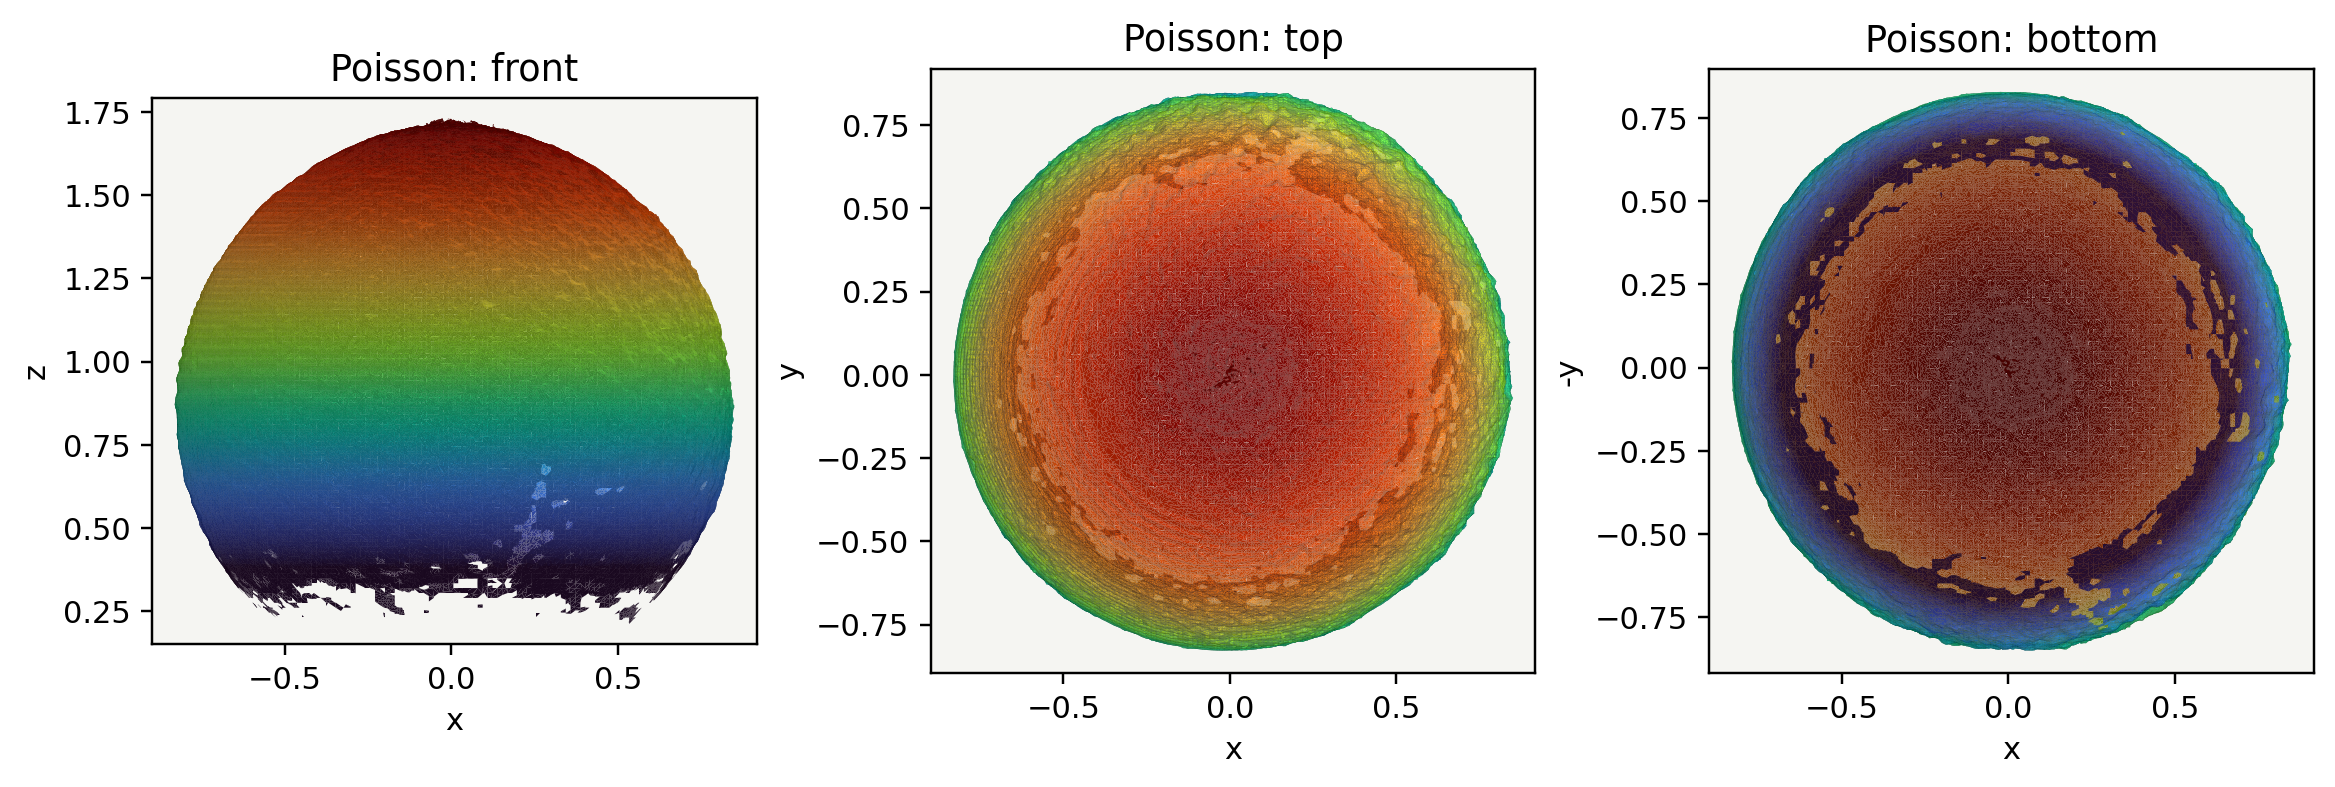
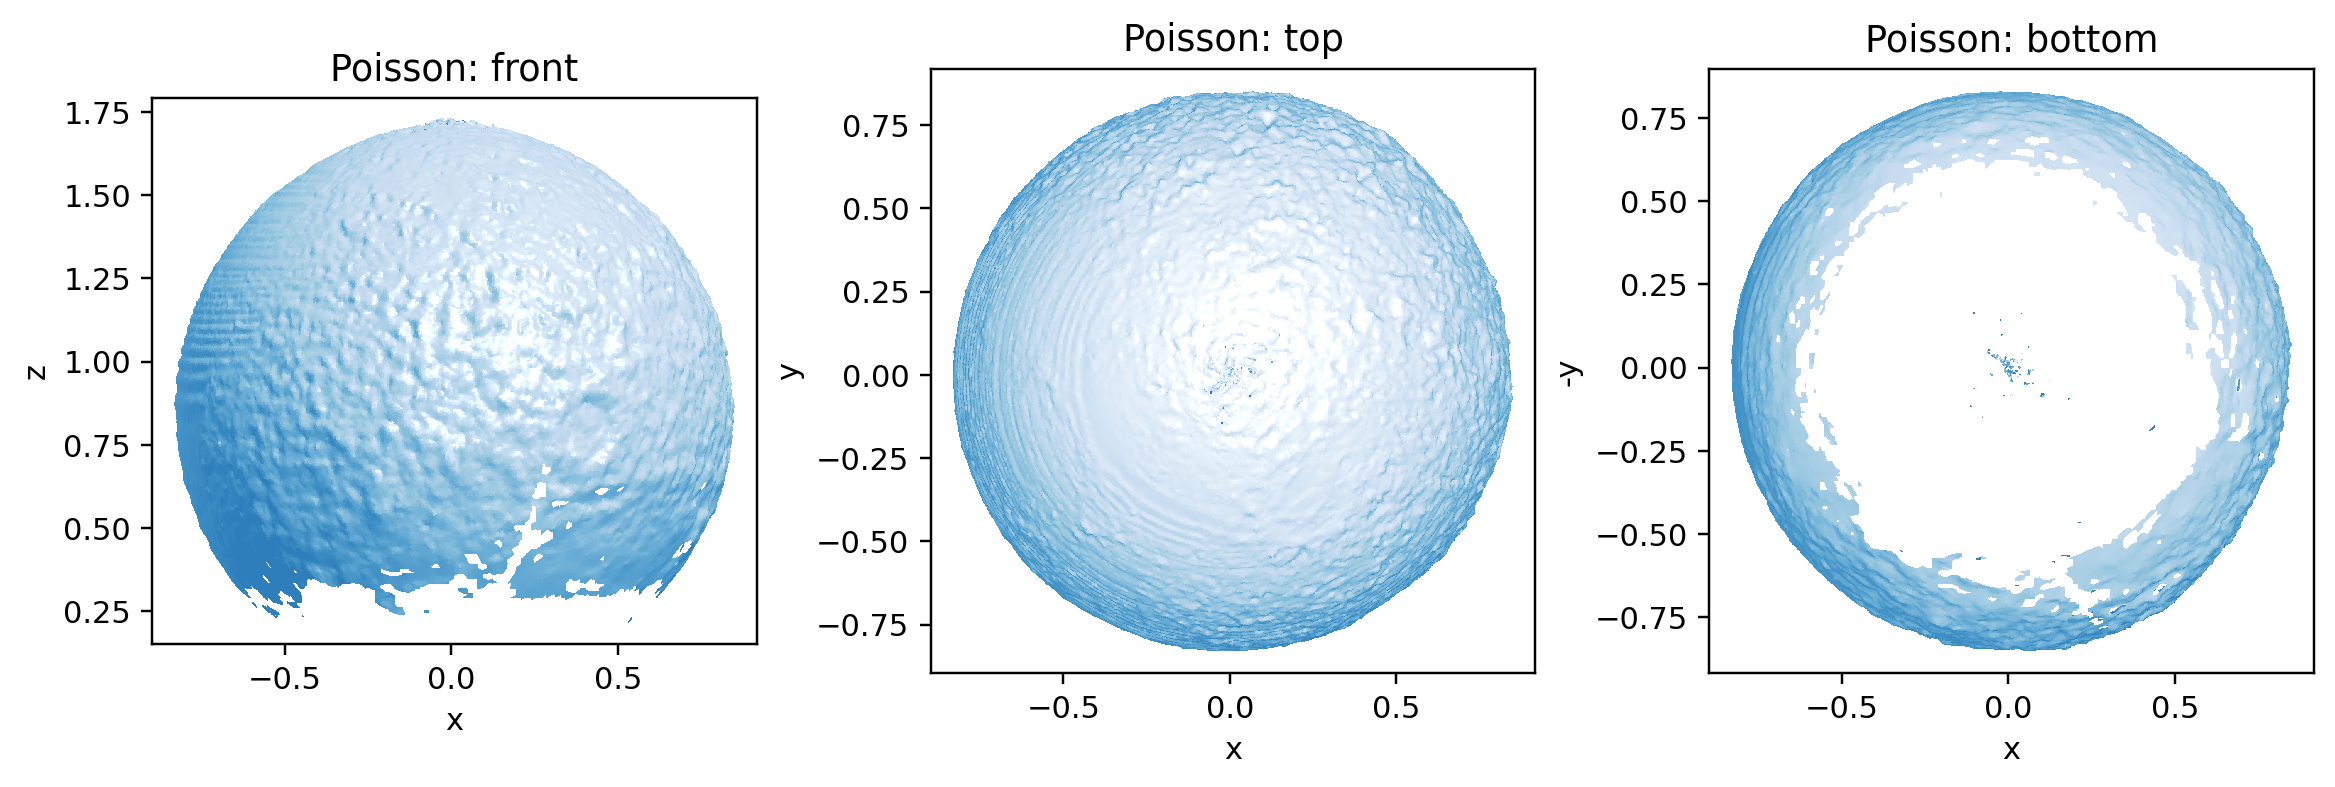
fix: generate view

diff --git a/scripts/generate_views.py b/scripts/generate_views.py
@@ -66,8 +66,8 @@ def parse_args():
     )
     parser.add_argument(
         "--color-by",
-        choices=["height", "view-depth", "normal"],
-        default="height",
+        choices=["height", "view-depth", "normal", "clay"],
+        default="clay",
         help="How to color mesh faces.",
     )
     parser.add_argument(
@@ -100,12 +100,16 @@ def load_mesh_arrays(mesh_path, max_faces):
         mesh = mesh.simplify_quadric_decimation(target_number_of_triangles=max_faces)
 
     mesh.compute_vertex_normals()
-    mesh.compute_triangle_normals()
-    return (
-        np.asarray(mesh.vertices, dtype=np.float64),
-        np.asarray(mesh.triangles, dtype=np.int64),
-        np.asarray(mesh.triangle_normals, dtype=np.float64),
-    )
+    vertices  = np.asarray(mesh.vertices,       dtype=np.float64)
+    triangles = np.asarray(mesh.triangles,      dtype=np.int64)
+    v_normals = np.asarray(mesh.vertex_normals, dtype=np.float64)
+    # Average the three vertex normals per face (smooth shading).
+    # This eliminates the marching-cubes / Poisson grid pattern that appears
+    # when every flat triangle has a slightly different geometric normal.
+    face_normals = v_normals[triangles].mean(axis=1)
+    norms = np.linalg.norm(face_normals, axis=1, keepdims=True)
+    face_normals /= np.where(norms < 1e-8, 1.0, norms)
+    return vertices, triangles, face_normals
 
 
 def equal_limits(values, pad=0.04):
@@ -120,10 +124,10 @@ def equal_limits(values, pad=0.04):
     return (lo - margin, hi + margin)
 
 
-def view_specs(vertices):
-    x_limits = equal_limits(vertices[:, 0])
-    y_limits = equal_limits(vertices[:, 1])
-    z_limits = equal_limits(vertices[:, 2])
+def view_specs(vertices, quarter_front=False):
+    x_limits = equal_limits(vertices[:, 0], pad=0.12)
+    y_limits = equal_limits(vertices[:, 1], pad=0.12)
+    z_limits = equal_limits(vertices[:, 2], pad=0.15)
     xy_span = max(x_limits[1] - x_limits[0], y_limits[1] - y_limits[0])
     xy_center = (
         (x_limits[0] + x_limits[1]) * 0.5,
@@ -134,8 +138,20 @@ def view_specs(vertices):
         (xy_center[1] - xy_span * 0.5, xy_center[1] + xy_span * 0.5),
     )
     bottom_y_limits = (-xy_limits[1][1], -xy_limits[1][0])
+
+    if quarter_front:
+        # Compute x-extent of the +30° rotated projection for correct axis limits.
+        # Camera is at (-sin30°, -cos30°, 0) = (-0.5, -0.866, 0) in world space.
+        angle = np.radians(30)
+        c, s = np.cos(angle), np.sin(angle)
+        x_rot = c * vertices[:, 0] - s * vertices[:, 1]
+        x_lim_q = equal_limits(x_rot, pad=0.12)
+        first_view = ("3/4 front", "x", "z", x_lim_q, z_limits)
+    else:
+        first_view = ("front", "x", "z", x_limits, z_limits)
+
     return [
-        ("front", "x", "z", x_limits, z_limits),
+        first_view,
         ("top", "x", "y", xy_limits[0], xy_limits[1]),
         ("bottom", "x", "-y", xy_limits[0], bottom_y_limits),
     ]
@@ -144,6 +160,15 @@ def view_specs(vertices):
 def project_vertices(vertices, view_name):
     if view_name == "front":
         return vertices[:, 0], vertices[:, 2], vertices[:, 1]
+    if view_name == "3/4 front":
+        angle = np.radians(30)
+        c, s = np.cos(angle), np.sin(angle)
+        x_rot  = c * vertices[:, 0] - s * vertices[:, 1]   # horizontal screen axis
+        # Negate so ascending argsort puts distant faces first (painter's algorithm).
+        # Camera is at world direction (-0.5, -0.866, 0); closer faces have a
+        # larger dot with that vector, so -(s·x + c·y) grows toward camera.
+        depth  = -(s * vertices[:, 0] + c * vertices[:, 1])
+        return x_rot, vertices[:, 2], depth
     if view_name == "top":
         return vertices[:, 0], vertices[:, 1], vertices[:, 2]
     if view_name == "bottom":
@@ -153,11 +178,30 @@ def project_vertices(vertices, view_name):
 
 def view_light_direction(view_name):
     if view_name == "front":
-        return np.array([0.2, -0.7, 0.7], dtype=np.float64)
+        return np.array([0.35, 0.75, 0.55], dtype=np.float64)
+    if view_name == "3/4 front":
+        # Camera at (-0.5, -0.866, 0); key light from camera side and above.
+        return np.array([-0.40, -0.77, 0.50], dtype=np.float64)
     if view_name == "top":
         return np.array([0.2, 0.2, 1.0], dtype=np.float64)
     if view_name == "bottom":
         return np.array([0.2, -0.2, -1.0], dtype=np.float64)
+    raise ValueError(f"Unknown view: {view_name}")
+
+
+def view_direction(view_name):
+    """Direction from the scene surface towards the camera (for specular)."""
+    if view_name == "front":
+        return np.array([0.0, 1.0, 0.0], dtype=np.float64)
+    if view_name == "3/4 front":
+        # Camera at world direction (-0.5, -0.866, 0) — 30° from front on monkey's left.
+        # Back-face culling keeps faces whose normal has a positive component
+        # toward that camera position.
+        return np.array([-0.5, -0.866, 0.0], dtype=np.float64)
+    if view_name == "top":
+        return np.array([0.0, 0.0, 1.0], dtype=np.float64)
+    if view_name == "bottom":
+        return np.array([0.0, 0.0, -1.0], dtype=np.float64)
     raise ValueError(f"Unknown view: {view_name}")
 
 
@@ -182,18 +226,36 @@ def face_colors(vertices, triangles, normals, depths, view_name, color_by, cmap_
     light = view_light_direction(view_name)
     light /= np.linalg.norm(light)
     diffuse = np.clip(normals @ light, 0.0, 1.0)
-    shade = 0.55 + 0.45 * diffuse
 
-    if color_by == "normal":
-        colors = np.abs(normals)
+    if color_by == "clay":
+        # Match notebook Blues_r style: dark-blue shadows, white highlights.
+        # Fill light prevents pitch-black back-faces.
+        fill = np.array([-light[0], -light[1] * 0.4, light[2] * 0.5])
+        fill_norm = np.linalg.norm(fill)
+        fill = fill / fill_norm if fill_norm > 1e-8 else np.array([0.0, 0.0, 1.0])
+        key_d  = np.clip(normals @ light, 0.0, 1.0)
+        fill_d = np.clip(normals @ fill,  0.0, 1.0)
+        # Intensity in [0.30, 1.0] maps to Blues_r: dark blue -> white
+        intensity = np.clip(0.30 + 0.55 * key_d + 0.15 * fill_d, 0.0, 1.0)
+        colors = get_cmap("Blues_r")(intensity)[:, :3]
+        # Blinn-Phong specular: white highlight on lit peaks
+        view = view_direction(view_name)
+        half = light + view
+        half /= np.linalg.norm(half)
+        specular = np.clip(normals @ half, 0.0, 1.0) ** 40 * 0.22
+        colors = colors + specular[:, None]
+    elif color_by == "normal":
+        shade = 0.10 + 0.90 * diffuse
+        colors = np.abs(normals) * shade[:, None]
     else:
         if color_by == "view-depth":
             scalars = depths
         else:
             scalars = np.mean(vertices[:, 2][triangles], axis=1)
         colors = get_cmap(cmap_name)(normalized(scalars))[:, :3]
+        shade = 0.10 + 0.90 * diffuse
+        colors = colors * shade[:, None]
 
-    colors *= shade[:, None]
     return np.clip(colors, 0.0, 1.0)
 
 
@@ -213,19 +275,32 @@ def draw_view(
 ):
     x_values, y_values, depths = project_vertices(vertices, view_name)
     face_depths = np.mean(depths[triangles], axis=1)
+
+    # Back-face culling: discard triangles whose normal points away from the camera.
+    # This removes open-bottom artefacts and depth-sorting bleed-through.
+    view_vec = view_direction(view_name)
+    front_mask = (normals @ view_vec) >= -0.05  # small tolerance keeps silhouette edges
+    triangles  = triangles[front_mask]
+    normals    = normals[front_mask]
+    face_depths = face_depths[front_mask]
+
     order = np.argsort(face_depths)
     polygons = np.stack((x_values[triangles], y_values[triangles]), axis=-1)[order]
     colors = face_colors(vertices, triangles, normals, face_depths, view_name, color_by, cmap_name)[order]
 
+    edge_color = 'none' if color_by == "clay" else (0.0, 0.0, 0.0, 0.15)
     collection = PolyCollection(
         polygons,
         facecolors=colors,
-        edgecolors=(0.02, 0.02, 0.02, 0.08),
-        linewidths=0.05,
+        edgecolors=edge_color,
+        linewidths=0.08,
         closed=True,
+        # Disable per-polygon antialiasing: it creates sub-pixel seams at every
+        # triangle boundary even when edgecolors='none', producing the grid pattern.
+        antialiaseds=False,
     )
     ax.add_collection(collection)
-    ax.set_facecolor("#f5f5f2")
+    ax.set_facecolor("white")
     ax.set_title(title)
     ax.set_xlabel(x_label)
     ax.set_ylabel(y_label)
@@ -244,8 +319,9 @@ def save_method_panel(
     dpi,
     color_by,
     cmap_name,
+    quarter_front=False,
 ):
-    specs = view_specs(vertices)
+    specs = view_specs(vertices, quarter_front=quarter_front)
     fig, axes = plt.subplots(1, 3, figsize=(10.5, 3.6), constrained_layout=True)
     for ax, (view_name, x_label, y_label, x_lim, y_lim) in zip(axes, specs):
         draw_view(
@@ -277,8 +353,9 @@ def save_separate_views(
     dpi,
     color_by,
     cmap_name,
+    quarter_front=False,
 ):
-    specs = view_specs(vertices)
+    specs = view_specs(vertices, quarter_front=quarter_front)
     for view_name, x_label, y_label, x_lim, y_lim in specs:
         fig, ax = plt.subplots(figsize=(4.2, 4.2), constrained_layout=True)
         draw_view(
@@ -318,6 +395,8 @@ def render_dataset(root_config, dataset_name, args):
 
         vertices, triangles, normals = load_mesh_arrays(mesh_path, args.max_faces)
         label = METHOD_LABELS[method]
+        # Use a 3/4 front view for Suzanne so the face is clearly readable
+        quarter_front = (dataset_name == "suzanne")
         out_path = output_dir / f"{dataset_name}_{method}_front_top_bottom.png"
         save_method_panel(
             vertices,
@@ -328,6 +407,7 @@ def render_dataset(root_config, dataset_name, args):
             args.dpi,
             args.color_by,
             args.cmap,
+            quarter_front=quarter_front,
         )
         print(f"saved: {out_path}")
 
@@ -343,6 +423,7 @@ def render_dataset(root_config, dataset_name, args):
                 args.dpi,
                 args.color_by,
                 args.cmap,
+                quarter_front=quarter_front,
             )
 
 
